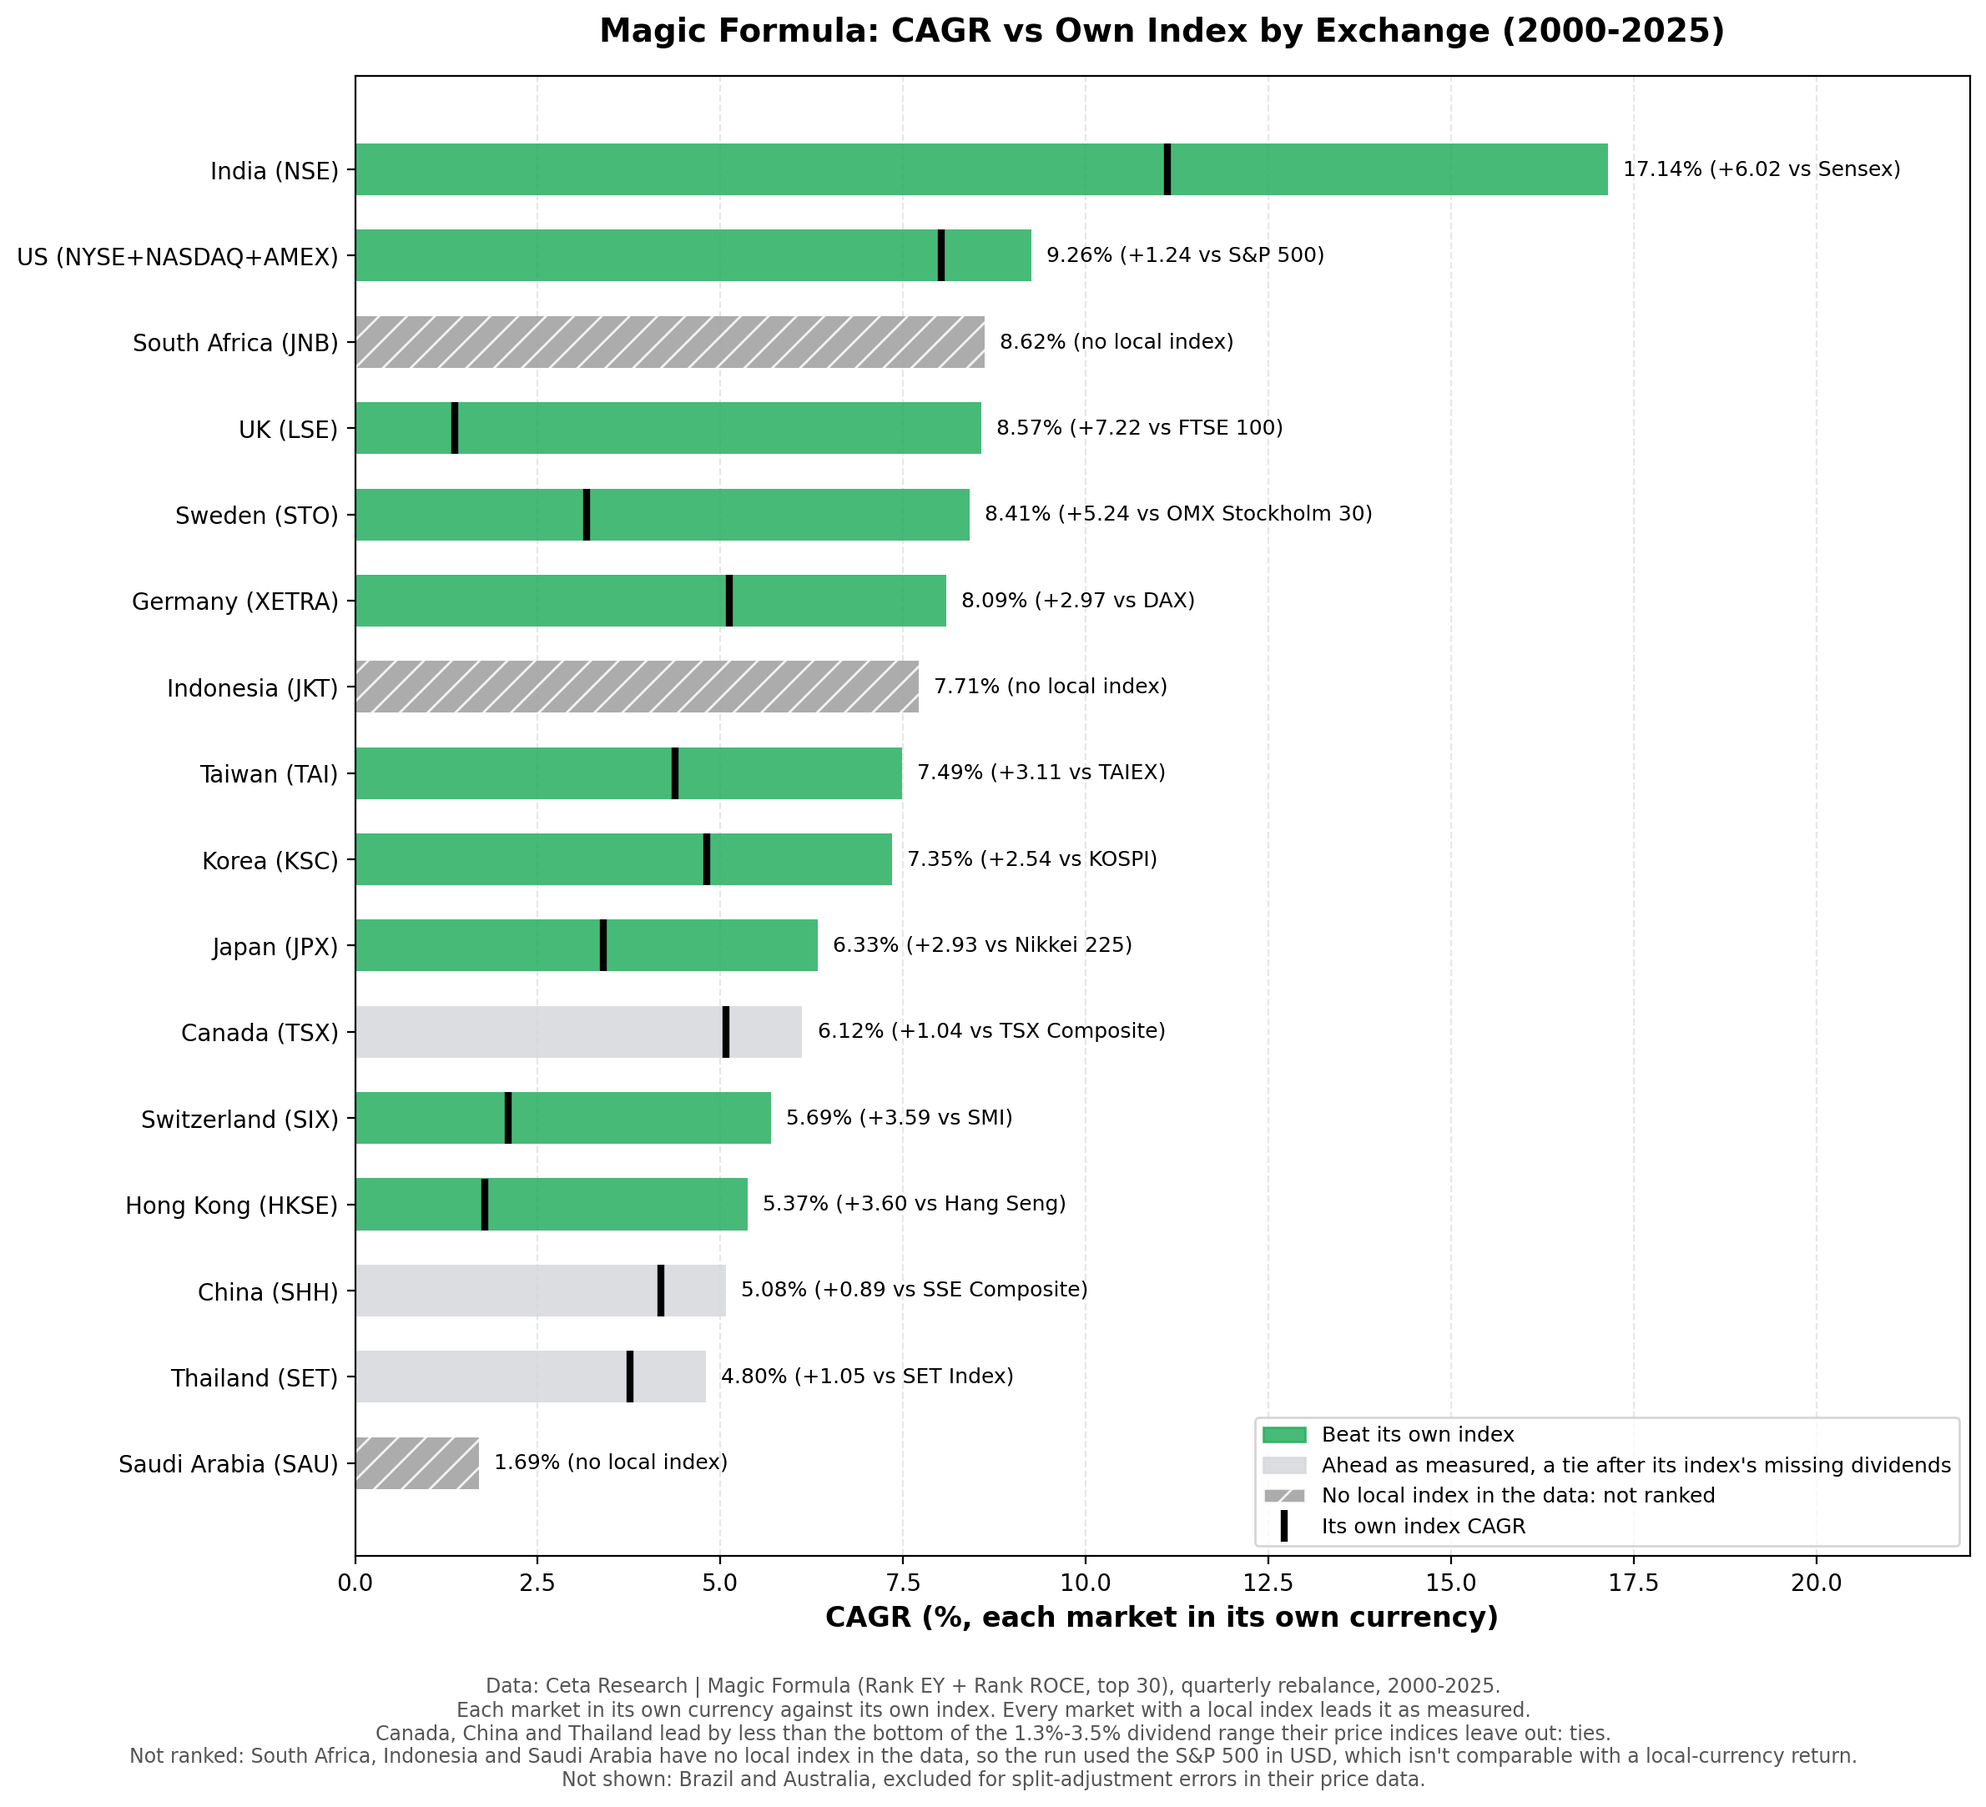
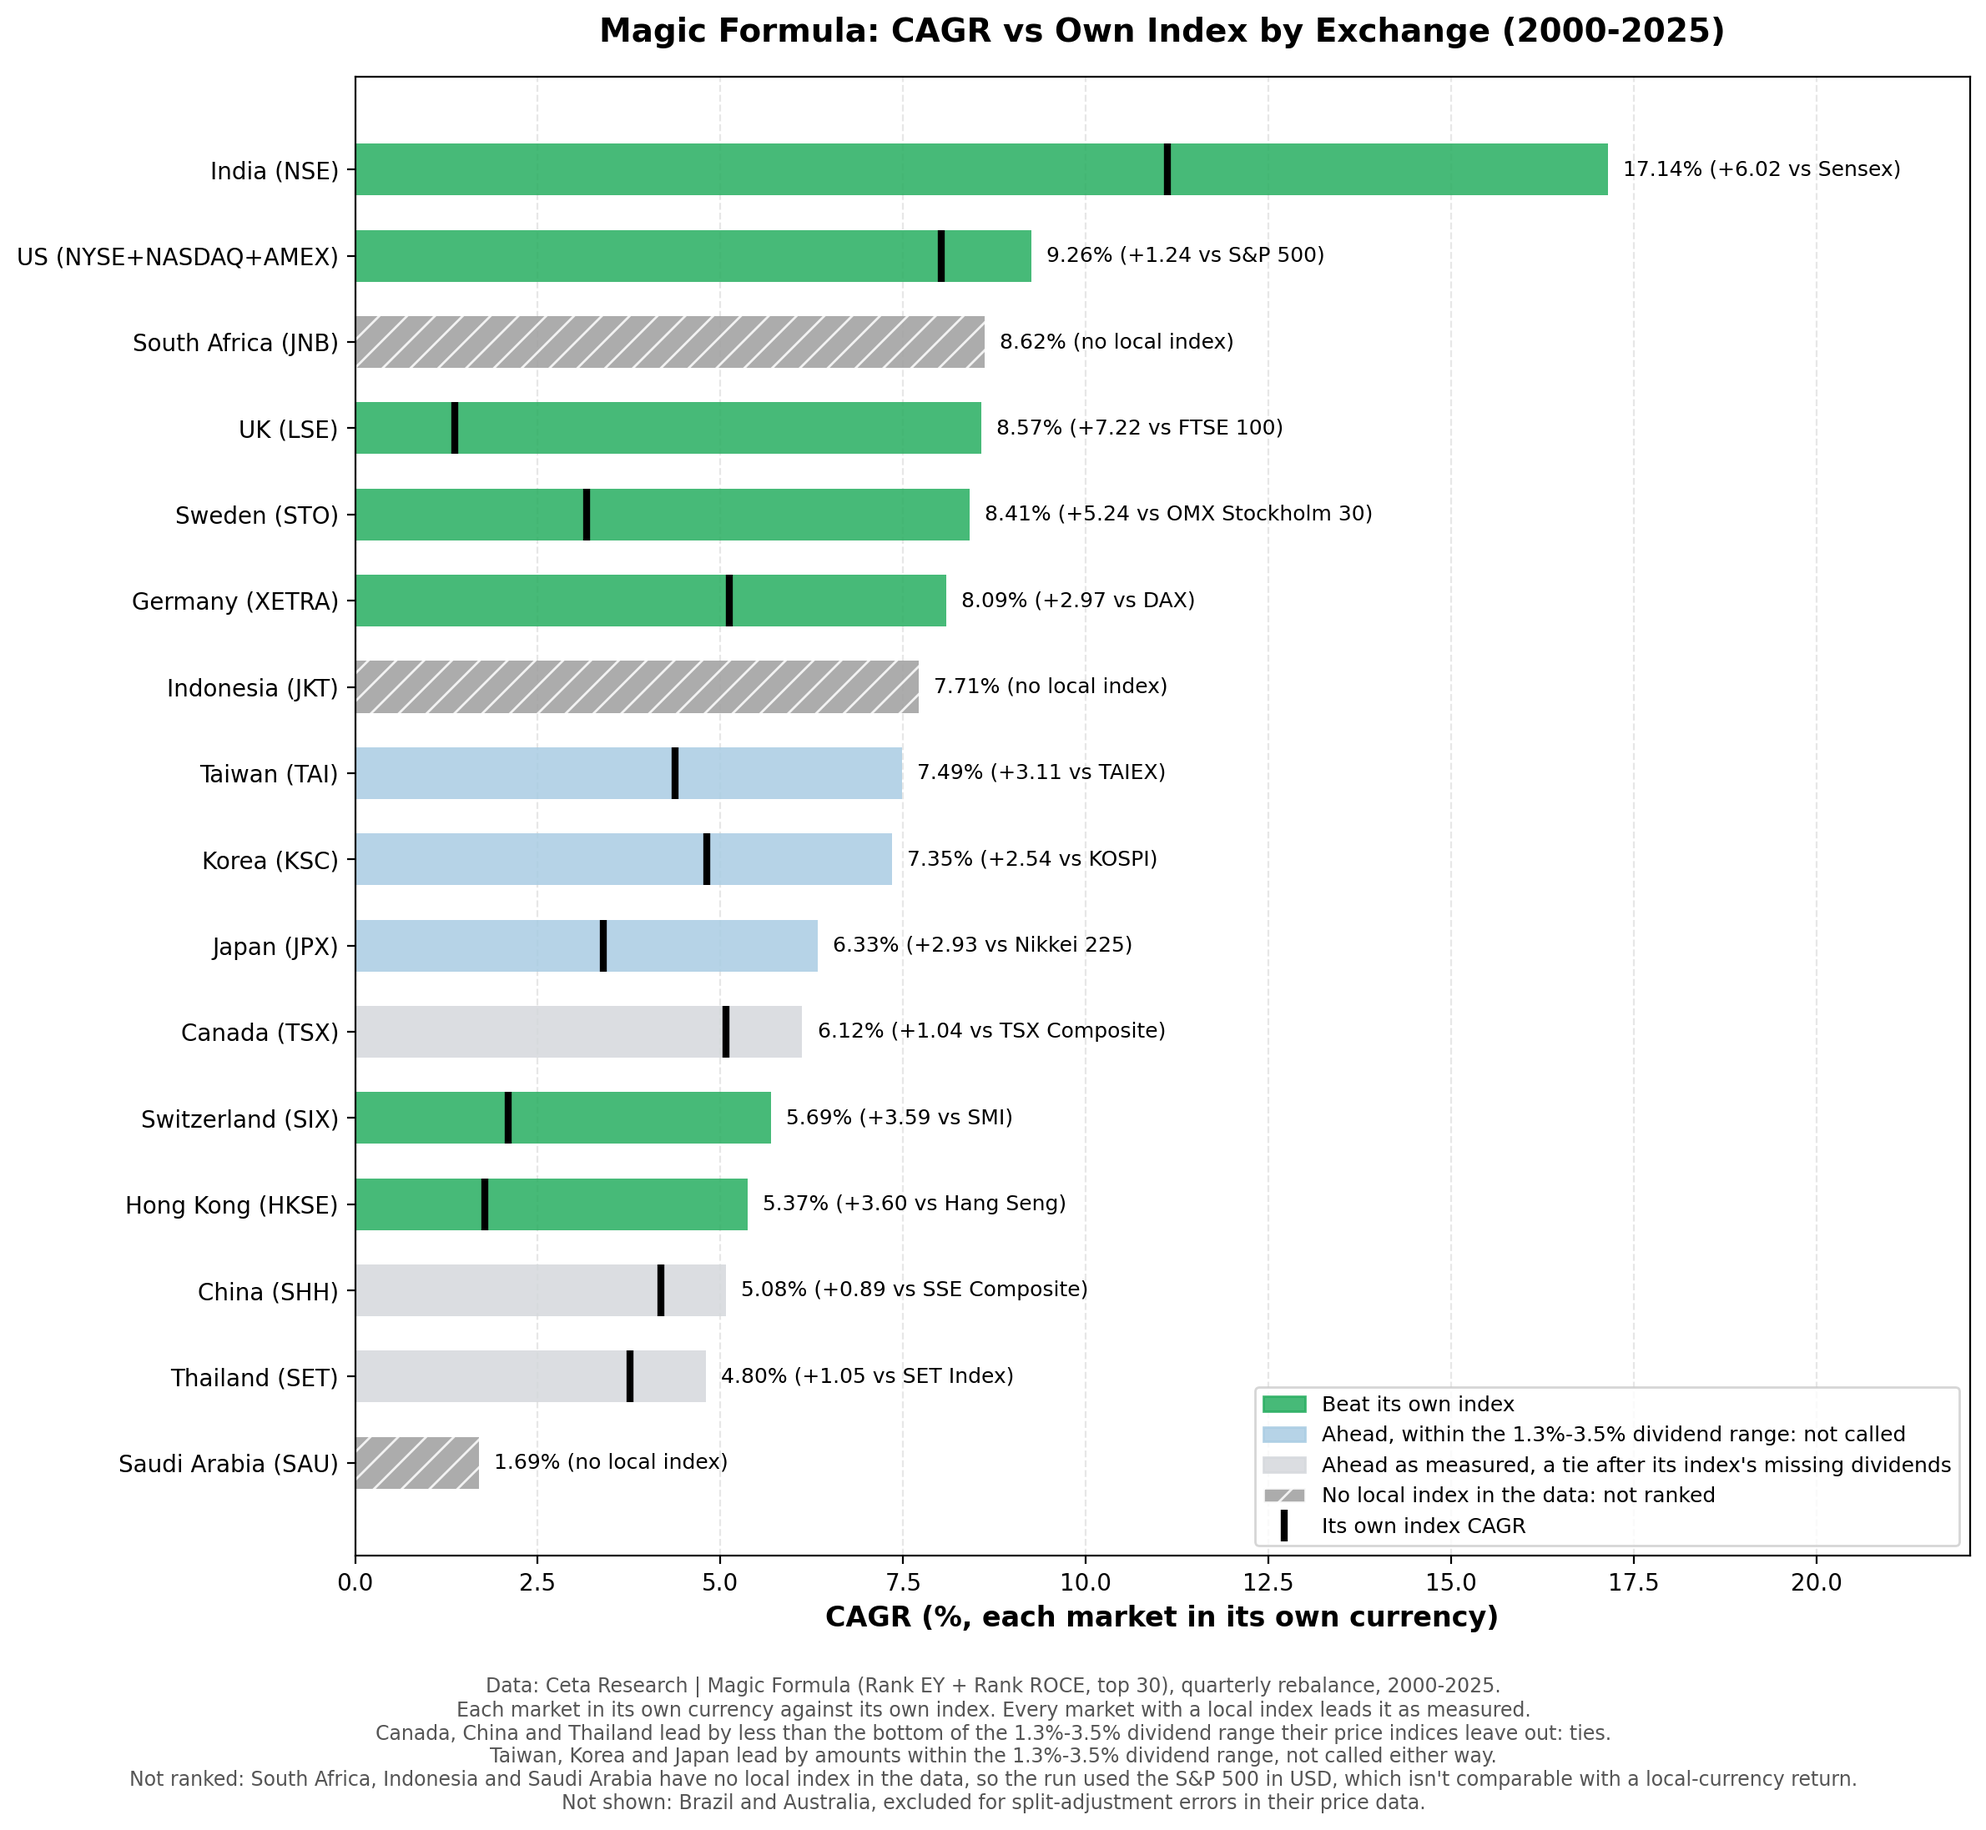
magic-formula: leads inside the dividend range shown as not called
Taiwan (+3.11), Japan (+2.93) and Korea (+2.54) lead their price indices by amounts inside the 1.3%-3.5% dividend range, which the comparison post counts neither way. They are now pale blue and named in the footer, as in the earnings-yield chart. Hong Kong (+3.60) and Switzerland (+3.59) are above the range, and the US and Germany are measured against total-return indices, so all four stay green.

diff --git a/magic-formula/generate_charts.py b/magic-formula/generate_charts.py
@@ -162,6 +162,8 @@ COMPARISON_FILES = {
 }
 # Leads over a price index below the bottom of the 1.3%-3.5% dividend range: ties
 DIVIDEND_TIES = {"SHH", "SET", "TSX"}
+# Leads over a price index inside that range, which the comparison post doesn't call
+NOT_CALLED = {"TAI", "JPX", "KSC"}
 
 
 def chart_comparison_cagr(filename):
@@ -171,9 +173,11 @@ def chart_comparison_cagr(filename):
         with open(results_dir / name) as f:
             legs[key] = json.load(f)
     keys = sorted(legs, key=lambda k: legs[k]["portfolio"]["cagr"], reverse=True)
-    verdicts = [own_index_verdict(legs, k, dividend_ties=DIVIDEND_TIES) for k in keys]
+    verdicts = [own_index_verdict(legs, k, dividend_ties=DIVIDEND_TIES, not_called=NOT_CALLED)
+                for k in keys]
     c = own_index_counts(verdicts)
     ties = [market_name(k, short=True) for k, v in zip(keys, verdicts) if v == "div_tie"]
+    uncalled = [market_name(k, short=True) for k, v in zip(keys, verdicts) if v == "not_called"]
     beat = ("Every market with a local index leads it as measured."
             if c["beat"] == c["ranked"] else
             f"{c['beat']} of the {c['ranked']} markets with a local index lead it as measured.")
@@ -183,10 +187,12 @@ def chart_comparison_cagr(filename):
         [FOOTER + ".",
          f"Each market in its own currency against its own index. {beat}",
          f"{', '.join(ties[:-1])} and {ties[-1]} lead by less than the bottom of the 1.3%-3.5% "
-         "dividend range their price indices leave out: ties."]
+         "dividend range their price indices leave out: ties.",
+         f"{', '.join(uncalled[:-1])} and {uncalled[-1]} lead by amounts within the 1.3%-3.5% "
+         "dividend range, not called either way."]
         + not_ranked_lines(legs, keys, verdicts)
         + ["Not shown: Brazil and Australia, excluded for split-adjustment errors in their price data."],
-        dividend_ties=DIVIDEND_TIES)
+        dividend_ties=DIVIDEND_TIES, not_called=NOT_CALLED)
 
 
 # ---- Generate all charts ----
